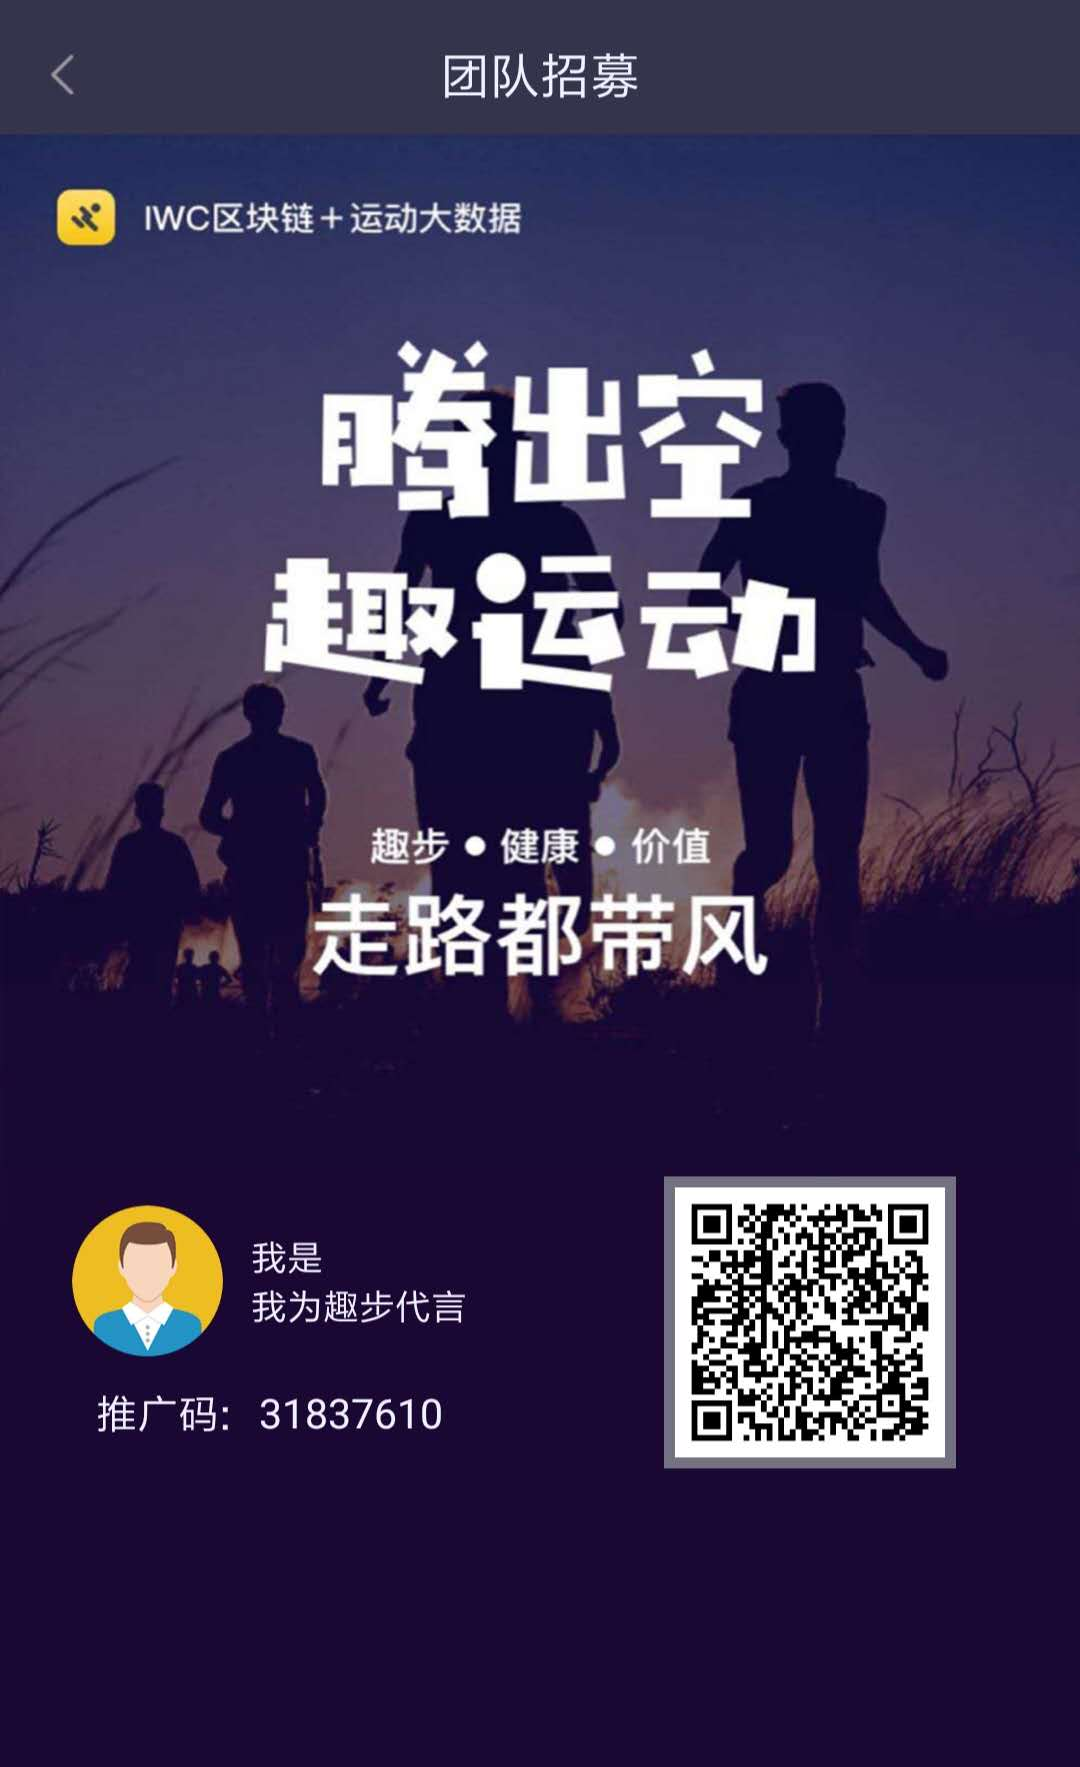
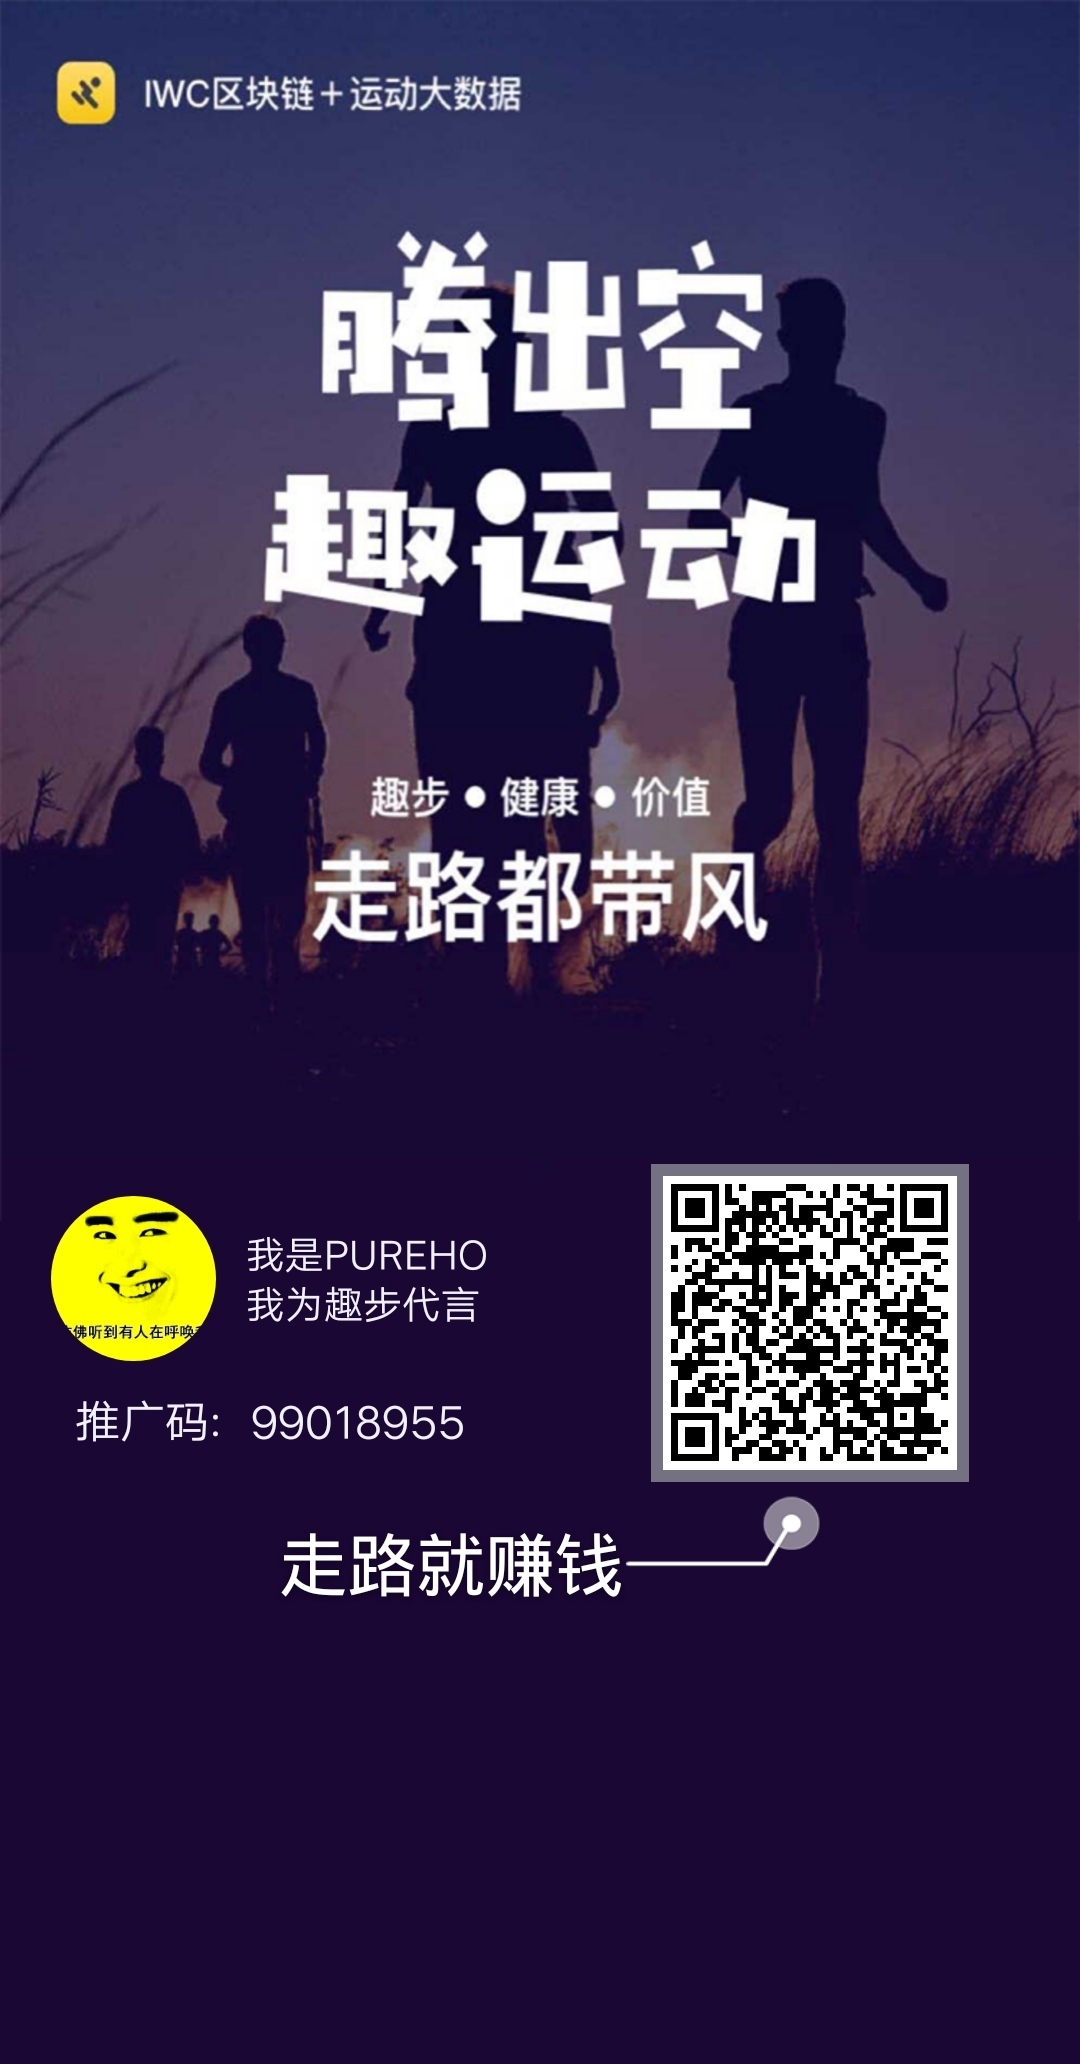
趣步修改

diff --git a/views/qubu/about_us.html b/views/qubu/about_us.html
@@ -177,7 +177,7 @@ var _hmt = _hmt || [];
                 	<h3>联系我们</h3>
                 	<p>趣步注册地址:</p>
                 	<p>
-                		<a href="https://www.51qub.com/html/reg?onlineid=31837610">https://www.51qub.com/html/reg?onlineid=31837610</a>
+                		<a href="https://www.51qub.com/html/reg?onlineid=99018955">https://www.51qub.com/html/reg?onlineid=99018955</a>
                 	</p>
                 	<div>
                 		<p>扫描二维码注册</p>
